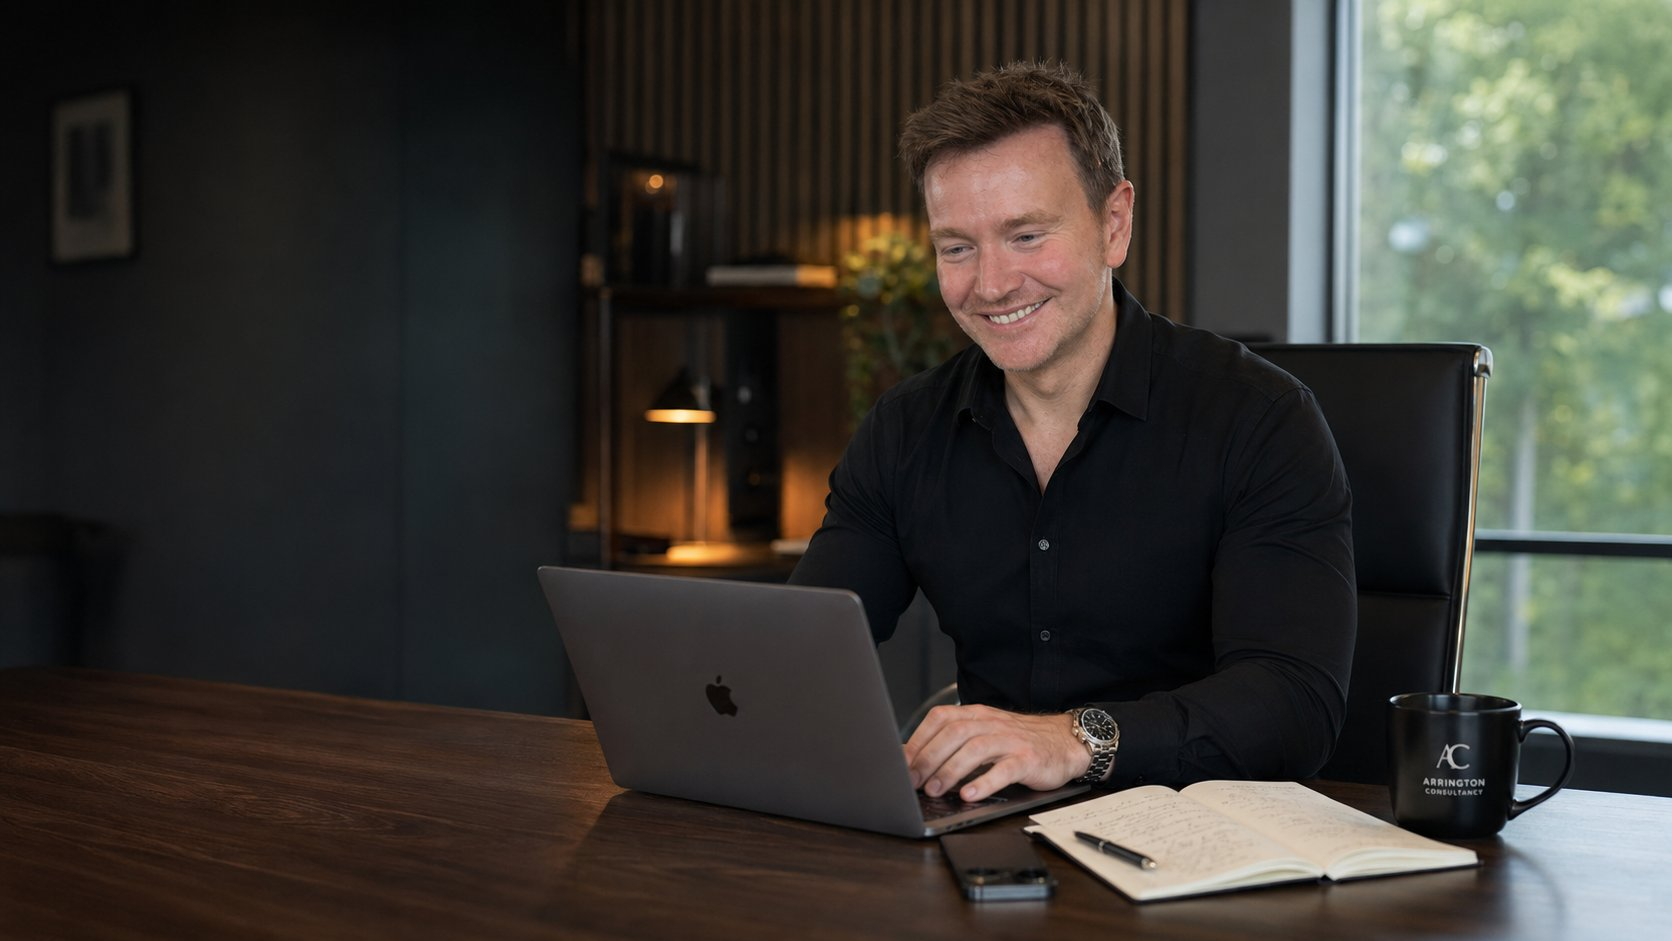
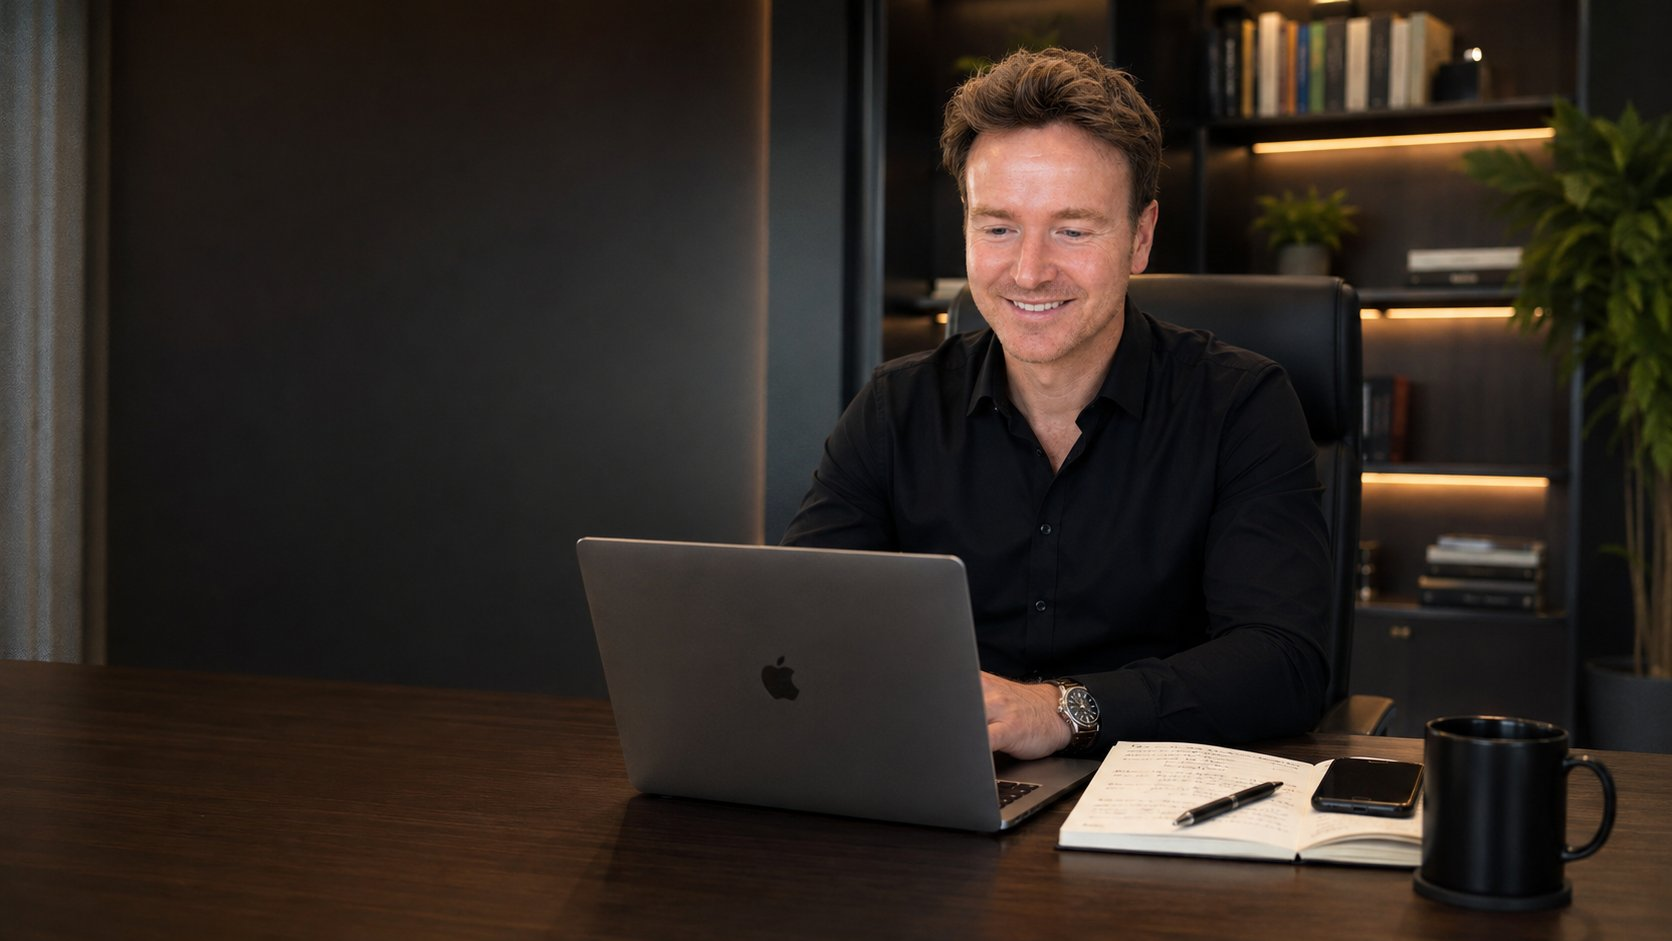
Swap Websites and AI hero photo for Tom's preferred version
Replaces the JPEG/WebP pair with a new photo Tom preferred, via a
hash-guarded migration so the swap only applies if the stored image
still matches the previous upload exactly (won't clobber a manual
CMS re-upload).

diff --git a/db/seed.js b/db/seed.js
@@ -1,5 +1,6 @@
 const fs = require('fs');
 const path = require('path');
+const crypto = require('crypto');
 const bcrypt = require('bcrypt');
 const db = require('./pool');
 const defaults = require('./defaults');
@@ -685,6 +686,30 @@ async function seed() {
     }
   }
   console.log('Images seeded.');
+
+  // Migration: swap the Websites and AI hero photo for Tom's preferred
+  // version (30/07/2026 - the first upload was replaced same-day with a
+  // photo he liked better). Only replaces the stored image if it still
+  // matches the exact bytes of the photo it's replacing, so a later manual
+  // re-upload via the CMS admin UI is never silently overwritten by this
+  // migration running again on a future boot.
+  {
+    const photoSwaps = [
+      { key: 'headshot__hero__5', oldMd5: 'a18db38f68cf92ee335ecd645a9456d0', file: 'hero-websites-and-ai.jpg', mime: 'image/jpeg' },
+      { key: 'headshot__hero__5__webp', oldMd5: '068d0a2e6de052234c2b9c028dddc6d1', file: 'hero-websites-and-ai.webp', mime: 'image/webp' }
+    ];
+    for (const s of photoSwaps) {
+      const { rows } = await db.query('SELECT data FROM images WHERE image_key = $1', [s.key]);
+      if (rows.length === 0) continue;
+      const currentMd5 = crypto.createHash('md5').update(rows[0].data).digest('hex');
+      if (currentMd5 === s.oldMd5) {
+        const filePath = path.join(__dirname, '..', s.file);
+        const data = fs.readFileSync(filePath);
+        await db.query('UPDATE images SET data = $1, mime_type = $2 WHERE image_key = $3', [data, s.mime, s.key]);
+        console.log(`Swapped ${s.key} to Tom's preferred photo.`);
+      }
+    }
+  }
 
   console.log('Seed complete.');
 }
